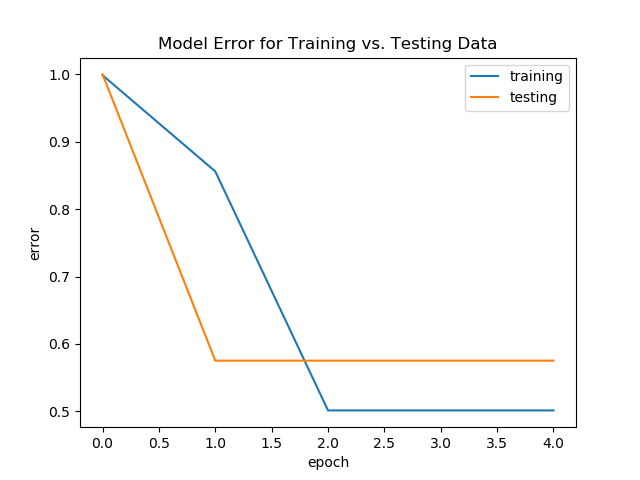
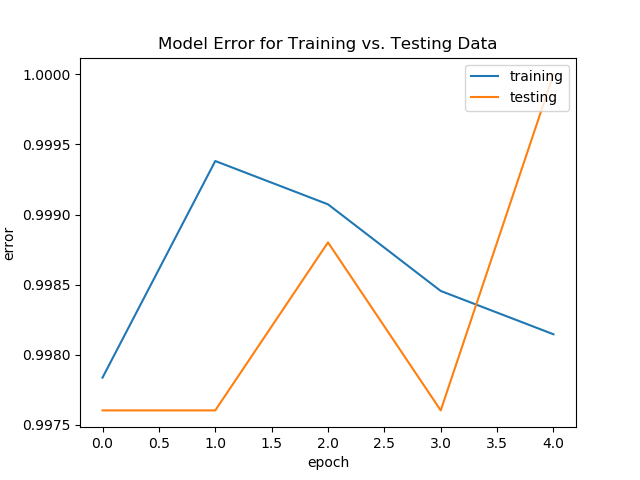
fixing ols

diff --git a/main.py b/main.py
@@ -136,24 +136,26 @@ def main():
 
         print(dataset.impute_inputs("2019-12-01", params["timestep"]))
 
-        for ann_params in l_ann_params:
-            row = {}
-            (mse, pred) = dataset.run_ANN(ann_params, "ANN" + params["fileparam"])
-            row["method"] = "ANN"
-            row["mse"] = mse
-            row["pred"] = pred
-            row["filename"] = "ANN" + params["fileparam"]
-            row["params"] = params
-            results.append(row.copy())
+        # for ann_params in l_ann_params:
+        #     row = {}
+        #     (mse, pred) = dataset.run_ANN(ann_params, "ANN" + params["fileparam"])
+        #     row["method"] = "ANN"
+        #     row["mse"] = mse
+        #     row["pred"] = pred
+        #     row["filename"] = "ANN" + params["fileparam"]
+        #     row["params"] = params
+        #     results.append(row.copy())
 
-        # row = {}
-        # (mse, pred) = dataset.run_OLS("OLS" + params["fileparam"])
-        # row["method"] = "OLS"
-        # row["mse"] = mse
-        # row["pred"] = pred
-        # row["filename"] = "OLS" + params["fileparam"]
-        # row["params"] = params
-        # results.append(row.copy())
+        row = {}
+        (mse, pred) = dataset.run_OLS("OLS" + params["fileparam"])
+        row["method"] = "OLS"
+        row["mse"] = mse
+        row["pred"] = pred
+        row["filename"] = "OLS" + params["fileparam"]
+        row["params"] = params
+        results.append(row.copy())
+
+        print(results)
         #
         # row = {}
         # (mse, predlist) = dataset.run_TSNN("TSNN" + params["fileparam"])
@@ -165,9 +167,9 @@ def main():
         # results.append(row.copy())
 
 
-    res_path = os.path.join(os.getcwd(), "results", "results.json")
-    with open(res_path, 'w') as fout:
-        json.dump(results, fout)
+    # res_path = os.path.join(os.getcwd(), "results", "results.json")
+    # with open(res_path, 'w') as fout:
+    #     json.dump(results, fout)
 
 
 if __name__ == "__main__":

diff --git a/OLS.py b/OLS.py
@@ -41,16 +41,16 @@ def run_OLS_predictor(data, x_train, y_train, x_test, y_test, pred_input, filena
     #     data.at[index, 'Date'] = data.at[index, 'Date'].replace('-', '')
 
     # Setting up data for graphing
-    for index, row in y_test.iterrows():
-        y_test.at[index, 0] = float(y_test.at[index, 0])
     for index, row in y_train.iterrows():
-        y_test.at[index, 0] = float(y_test.at[index, 0])
+        y_train.at[index, 'SNWD.I-1 (in) '] = float(y_train.at[index, 'SNWD.I-1 (in) '])
+    for index, row in y_test.iterrows():
+        y_test.at[index, 'SNWD.I-1 (in) '] = float(y_test.at[index, 'SNWD.I-1 (in) '])
 
     whole_x = pd.concat([x_train, x_test], ignore_index=True)
     whole_y = pd.concat([y_train, y_test], ignore_index=True)
 
     for index, row in whole_y.iterrows():
-        whole_y.at[index, 0] = float(whole_y.at[index, 0])
+        whole_y.at[index, 'SNWD.I-1 (in) '] = float(whole_y.at[index, 'SNWD.I-1 (in) '])
 
     reg = LinearRegression().fit(x_train, y_train)
 
@@ -84,6 +84,8 @@ def run_OLS_predictor(data, x_train, y_train, x_test, y_test, pred_input, filena
     print(data)
     print(data["Date"])
     print( data["SNWD.I-1 (in) "])
+    print(type(data["SNWD.I-1 (in) "]))
+    print(data["SNWD.I-1 (in) "].shape)
     plt.plot(data['Date'],  data["SNWD.I-1 (in) "]-y_pred_whole, color='green')
     plt.legend
     plt.title('Actual - Predicted')
@@ -92,4 +94,3 @@ def run_OLS_predictor(data, x_train, y_train, x_test, y_test, pred_input, filena
     plt.savefig(os.path.join(os.getcwd(), "results", filename))
     # print(output_pred[0][0])
     return MSE,output_pred[0][0]
-
